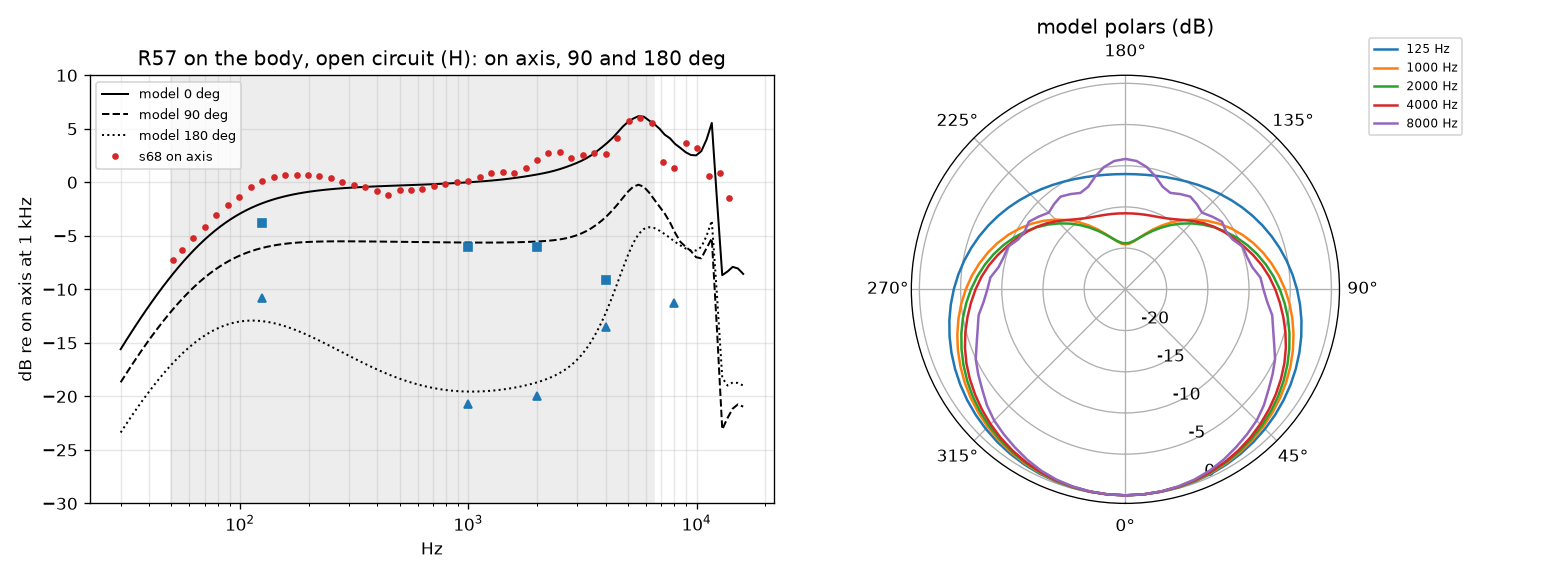
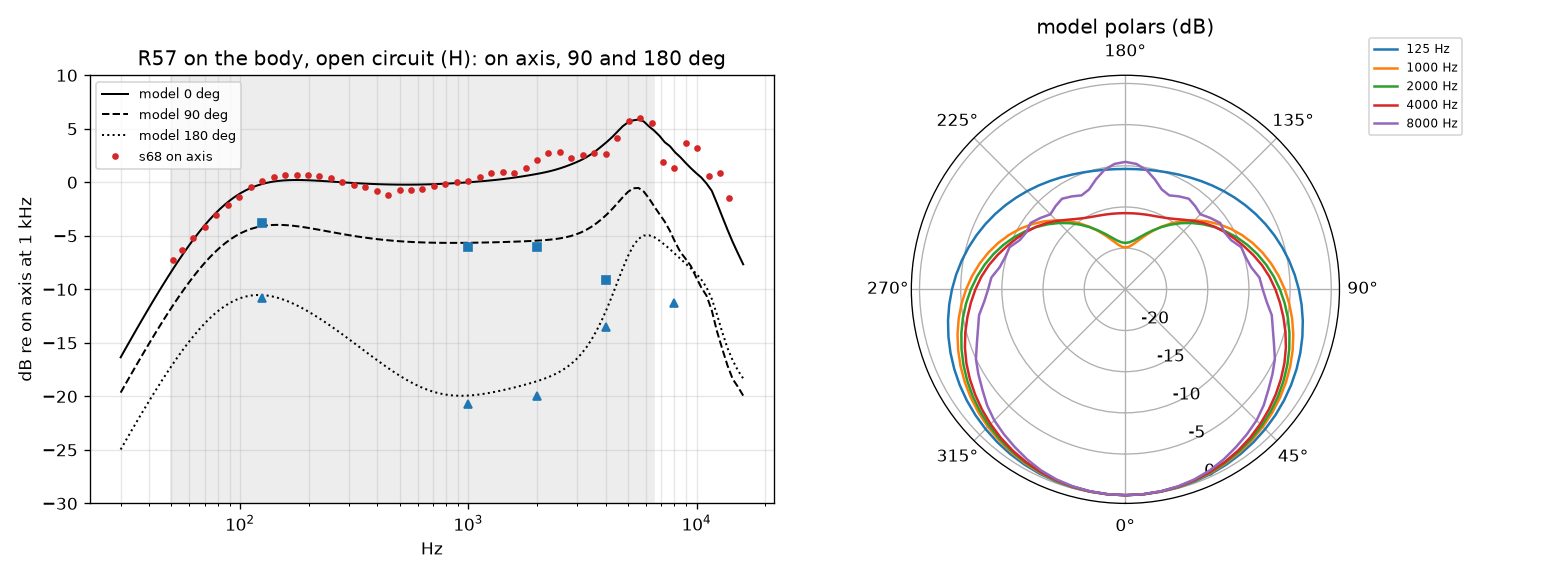
SM57 SM3's ducts: the cap fitted on the body, R57@3
The cap's holes and its air layer's effective height gridded against s68 above the presence
peak, the network refitted on the body: 0.60 dB rms to 6.5 kHz, 2.42 dB rms above (was 4.5),
every polar within 2.4 dB, 1.487 mV/Pa; the resonance lands at 97 Hz (Shure's ~100 Hz, not a
target). The circuit pins R57@3; the agreement test passes. fit_sm57.py's writer keeps an
exponent's decimal point (PyYAML read R57@2's '2e-05' as a string; only its geometry record).
Open: the dome's modes (the dip at 7.7 kHz, the second peak at 9.6 kHz).

diff --git a/tests/test_sm57.py b/tests/test_sm57.py
@@ -21,7 +21,7 @@ TURNS = 4.53  # cj06
 ANGLES = [0.0, 90.0, 180.0]
 
 
-VERSION = "R57@2"  # the circuit's (on the mic's body; R57@1 was fitted on a sphere)
+VERSION = "R57@3"  # the circuit's (on the mic's body; @1 on a sphere, @2 before the cap's fit)
 _ENT: dict = {}
 
 
@@ -107,3 +107,16 @@ def test_noise_skips_the_leak():
     noisy = {e.name[3:] for e in ir.elements() if isinstance(e, NoiseCurrent)}
     assert {"RMC_re", "RMC_ps_r1", "RMC_washer"} <= noisy
     assert "RMC_dia_leak" not in noisy
+
+
+def test_above_the_presence_peak():
+    """s68 at 6.5-10.5 kHz within 3 dB (the cap and its layer fitted there; SM3's
+    tolerance, +-2 dB to 10 kHz, waits for the dome's modes: the dip at 7.7 kHz and the second
+    peak at 9.6 kHz)."""
+    rows = [r for r in _rows("shure_sm57_response.csv", "s68") if r["quality"] != "coarse"]
+    f = np.array([float(r["freq_hz"]) for r in rows])
+    db = np.array([float(r["db"]) for r in rows])
+    keep = (f > 6500) & (f <= 10500)
+    h = _response(np.concatenate([[1000.0], f[keep]]), 0.0)
+    on = 20 * np.log10(abs(h[1:]) / abs(h[0]))
+    assert np.max(abs(on - db[keep])) < 3.0

diff --git a/scripts/fit_sm57.py b/scripts/fit_sm57.py
@@ -285,6 +285,16 @@ def summary(g, all_resp, polar, sens_v_pa) -> dict:
     }
 
 
+def _num(v, digits: int) -> str:
+    """A float as YAML 1.1 reads it back as one: an exponent needs a decimal point
+    (PyYAML reads `2e-05` as a string)."""
+    text = f"{float(v):.{digits}g}"
+    if "e" in text and "." not in text.split("e")[0]:
+        head, tail = text.split("e")
+        text = f"{head}.0e{tail}"
+    return text
+
+
 def write(g) -> None:
     """The fitted values into published_points.yaml's R57 block, in place."""
     lines = PUBLISHED.read_text(encoding="utf-8").split("\n")
@@ -301,7 +311,7 @@ def write(g) -> None:
         if len(hits) != 1:
             raise SystemExit(f"published_points.yaml: {len(hits)} lines for {path}")
         i = hits[0]
-        text = f"[{v[0]:.4g}, {v[1]:.4g}]" if isinstance(v, list) else f"{float(v):.5g}"
+        text = f"[{_num(v[0], 4)}, {_num(v[1], 4)}]" if isinstance(v, list) else _num(v, 5)
         pat = rf"({key}: \{{value: )(\[[^]]*\]|[^}}]+)\}}"
         lines[i], n = re.subn(pat, rf"\g<1>{text}}}", lines[i])
         if n != 1:

diff --git a/docs/SM57_PLAN.md b/docs/SM57_PLAN.md
@@ -76,9 +76,22 @@ model gives +18 dB at 100 Hz at 6 mm from the cartridge's face, +16 at 25 mm, +8
 tip or the face behind it), and first-order theory with the 125 Hz pattern gives more still;
 open, for the user. `tests/test_sm57.py` checks R57@2 on its body.
 
-**Open, handed on:** above the presence peak (SM3): the dip at 7.7 kHz and the second peak at
-9.6 kHz aren't drawn (on the body: rms 4.5 dB above 6.5 kHz; the provisional cap puts a spike
-at 11.3 kHz and a notch at 12.5 kHz). The sphere-era notes follow.
+**SM3's ducts (the cap), R57@3** (the circuit pins it): on the body, the cap's holes and its
+air layer gridded against s68 at 6.5-14 kHz (`film` height 0.072 mm effective, holes 0.75 mm;
+the layer's loss is set by its thinnest part, where the dome rises toward the cap), then the
+network refitted: sensitivity 1.487 mV/Pa; on axis 0.60 dB rms (max 1.7) to 6.5 kHz and 2.42
+dB rms above; the polars within 2.4 dB at every c81 frequency (125 Hz -3.9 / -10.4, 1 kHz
+-5.7 / -19.9, 2 kHz -6.2 / -19.4, 4 kHz -6.8 / -15.8, 8 kHz rear -9.5; published as above).
+**The moving system's resonance came out at 97 Hz**, Born's "in the 100Hz area", which wasn't
+a target (the low end was). B l 2.45 T m, B 1.2 T (at its bound, the sensitivity met), moving
+mass 69 mg, the air behind the washer 2.5 cm^3. R57@2's geometry records the handle's volume
+as the string '2e-05' (PyYAML reads an exponent without a decimal point as a string; its
+lumped value is right, and the builders read only that); fit_sm57.py's writer is fixed.
+
+**Open, handed on (SM3's modes):** the dip at 7.7 kHz and the second peak at 9.6 kHz aren't
+drawn (the model falls smoothly: 2.4 dB under at 10 kHz, ~4 dB under at 12.7-13.9 kHz). SM3's
+tolerance holds to ~8.5 kHz. The dome's modes (pat713's two cones and the coil ring, its bridges
+breaking axial symmetry) are next. The sphere-era notes follow.
 
 The presence peak and above were not in SM2: the model has no presence
 peak (~11 dB short at 5.8 kHz), a small bump at 11 kHz and a notch at 12.5 kHz. Why: on a

diff --git a/data/schematics/shure_sm57/README.md b/data/schematics/shure_sm57/README.md
@@ -347,3 +347,12 @@ a band 3-9 mm behind the face (a grid: 3-9 / 5-11 / 7-13 / 11-17 / 15-21 mm; cos
 cm^3 (at the body's bound). Moving mass 9.6 mg. The on-axis response 50 Hz-6.5 kHz 1.08 dB rms
 against s68, the presence peak included (the body's diffraction); the polars at every c81
 frequency within 3 dB (docs/SM57_PLAN.md "Status"). R57@1 (the sphere) stays for the record.
+
+## R57@3 (the cap fitted on the body)
+
+The cap's holes (0.75 mm radius) and its air layer's effective height (0.072 mm) gridded
+against s68's 6.5-14 kHz on the body, then the network refitted (`fit_sm57.py --ports-mm 6`):
+B l 2.45 T m, B 1.2 T (bound), resonance 97 Hz (Born: ~100 Hz; not a target), R1 2.11e6,
+q 13.8, d 17.7 mm, washer 1.59e7 Pa s/m^3, 2.5 cm^3 behind it; moving mass 69 mg.
+Sensitivity 1.487 mV/Pa; on axis 0.60 dB rms to 6.5 kHz, 2.42 dB rms above; polars within
+2.4 dB at every c81 frequency.
